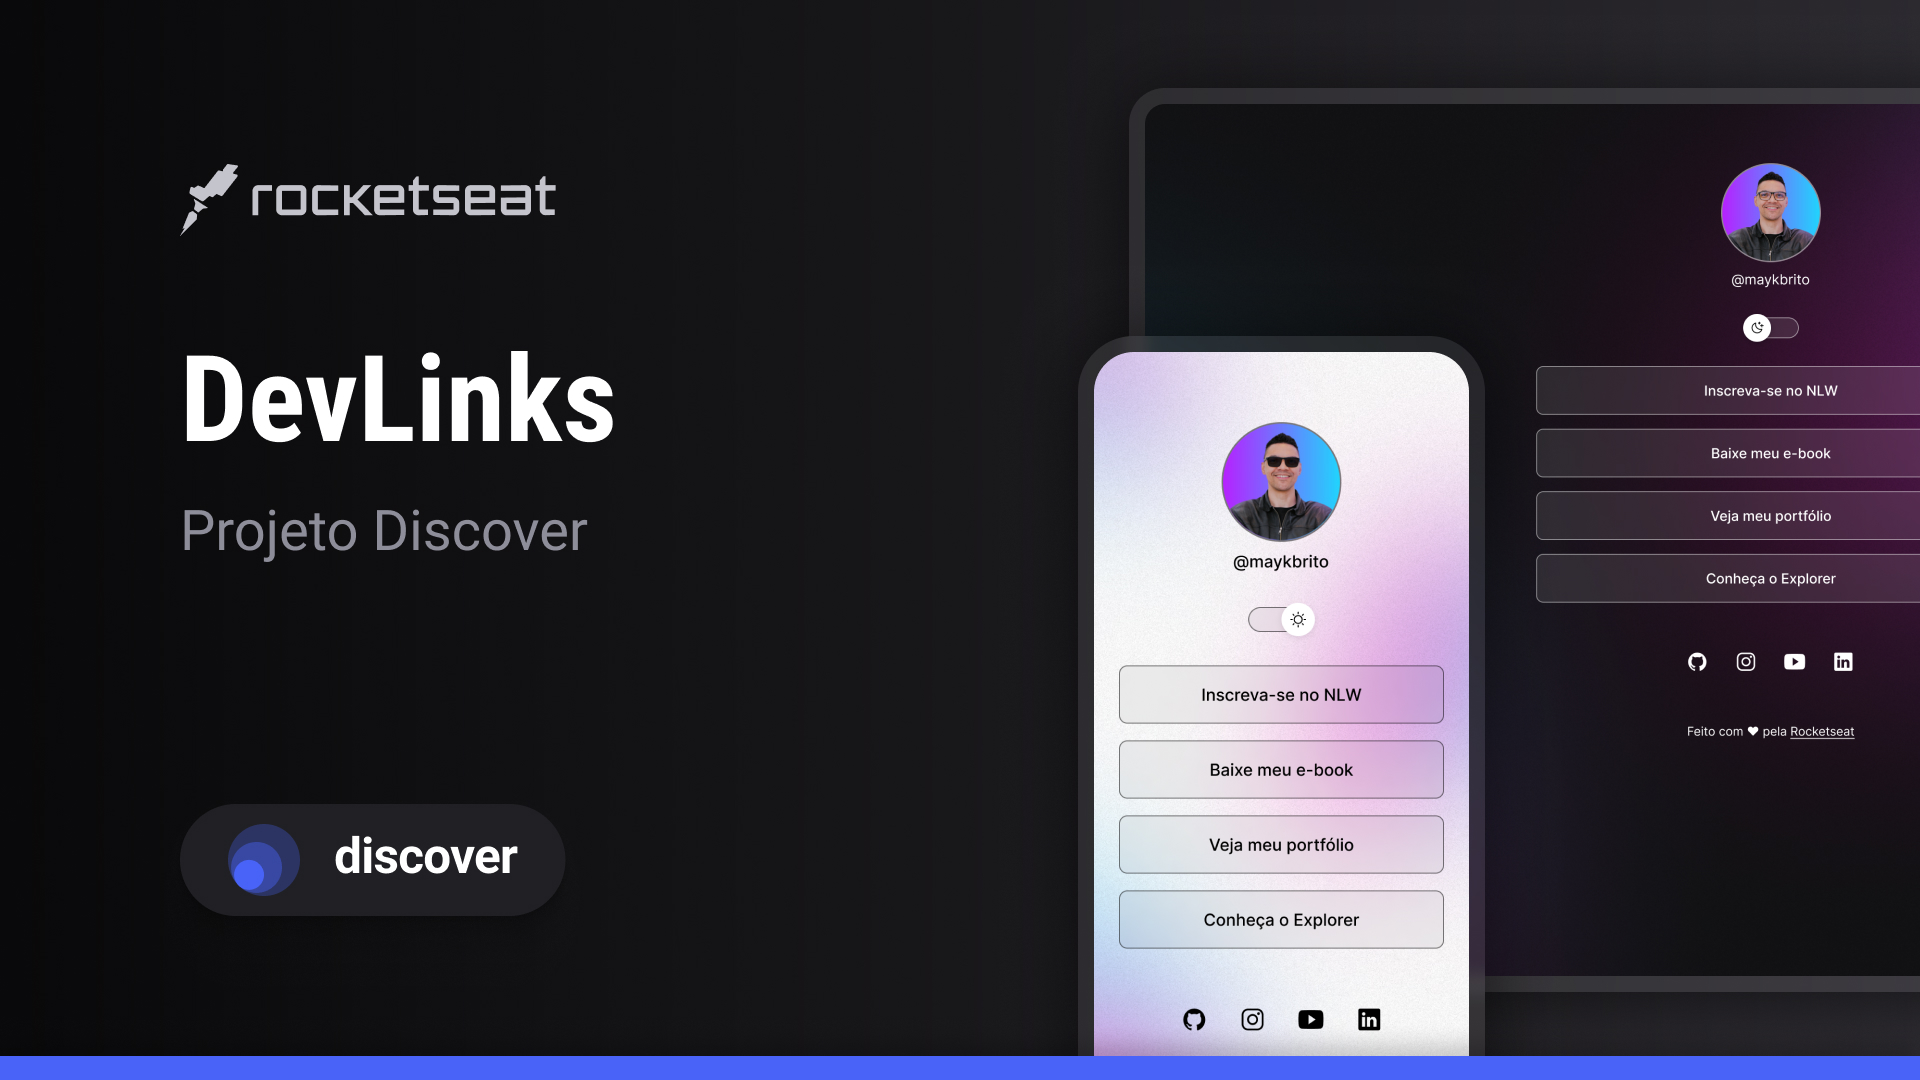
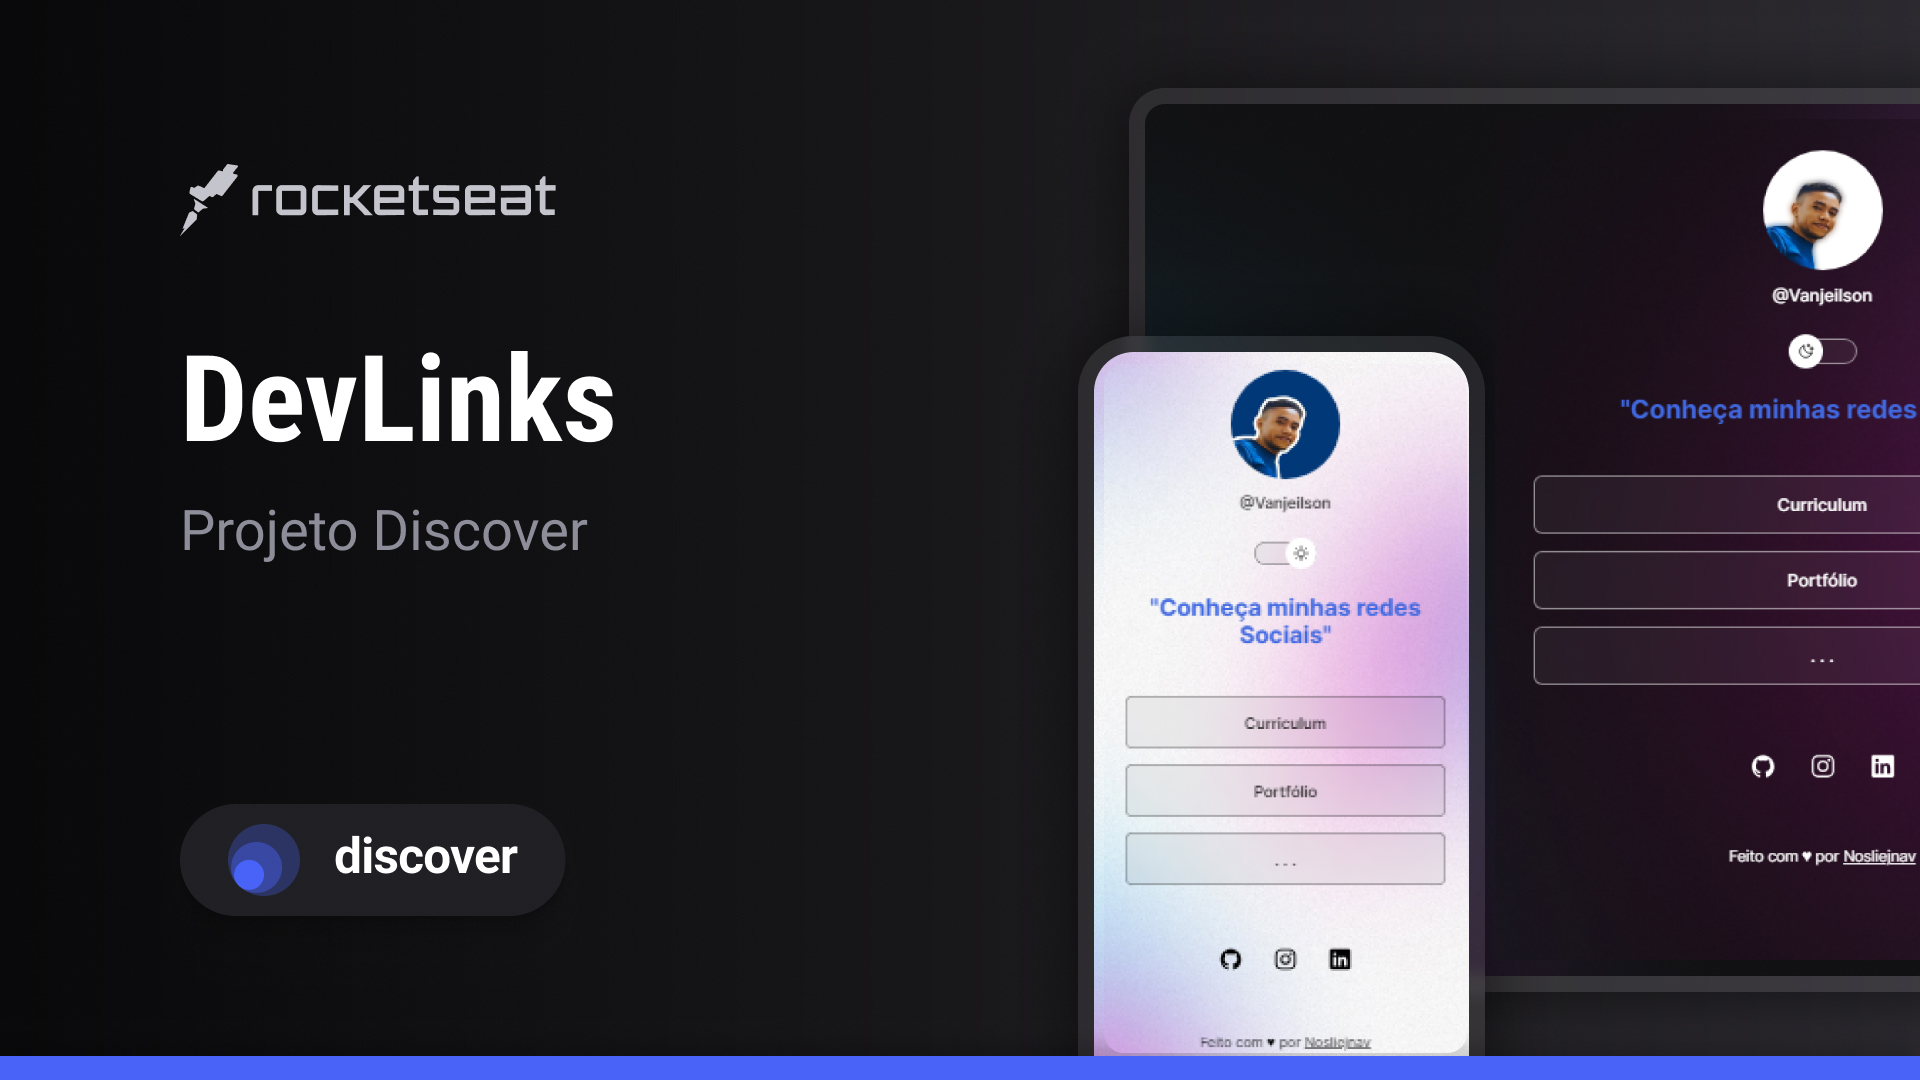
add upgrade

Changed region(s): [[0.7812, 0.1222, 1.0, 0.6417], [0.5938, 0.3361, 0.75, 0.9778], [0.875, 0.6722, 1.0, 0.825]]

diff --git a/index.html b/index.html
@@ -32,40 +32,46 @@
         <button></button>
         <span></span>
       </div>
+      <div id="profile">
+        <h2 ><strong style="color: royalblue;">"Conheça minhas redes Sociais"</strong></h2>
+      </div>
 
       <ul>
+        <!--
         <li>
           <a href="#">Inscrever-se no NLW</a>
         </li>
-
+-->
         <li>
-          <a href="#">Baixar meu e-book</a>
+          <a href="#">Curriculum</a>
         </li>
 
         <li>
-          <a href="#">Ver meu portfólio</a>
+          <a href="https://github.com/nosliejnav" target="_blank"
+            >Portfólio</a
+          >
         </li>
 
         <li>
-          <a href="https://rocketseat.com.br/explorer" target="_blank"
-            >Conheça o Explorer</a
+          <a href="https://github.com/Nosliejnav/edevlinks" target="_blank"
+            > . . . </a
           >
         </li>
       </ul>
       <div id="social-links">
-        <a href="https://github.com/maykbrito" target="_blank">
+        <a href="https://github.com/nosliejnav" target="_blank">
           <ion-icon name="logo-github"></ion-icon>
         </a>
 
-        <a href="https://github.com/maykbrito" target="_blank">
+        <a href="https://github.com/nosliejnav" target="_blank">
           <ion-icon name="logo-instagram"></ion-icon>
         </a>
-
-        <a href="https://github.com/maykbrito" target="_blank">
+        <!--
+        <a href="https://github.com/nosliejnav" target="_blank">
           <ion-icon name="logo-youtube"></ion-icon>
         </a>
-
-        <a href="https://github.com/maykbrito" target="_blank">
+-->
+        <a href="https://www.linkedin.com/in/vanjeilson/" target="_blank">
           <ion-icon name="logo-linkedin"></ion-icon>
         </a>
       </div>
